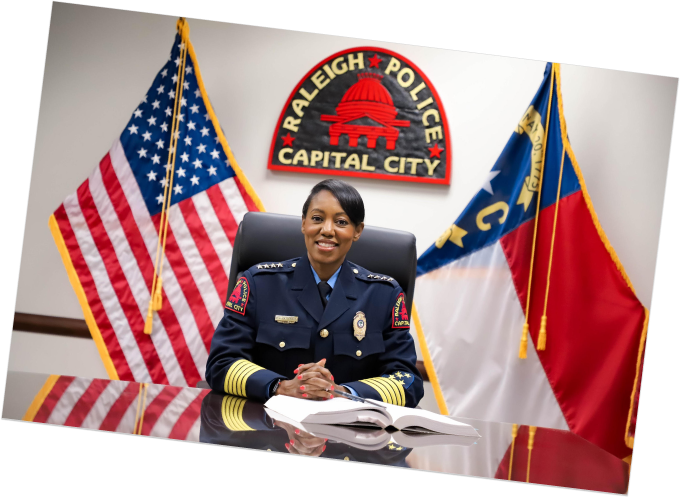
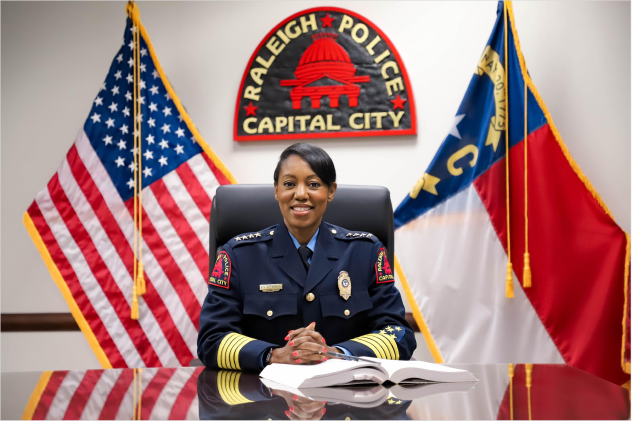
correct letter photo

diff --git a/styles/globals.scss b/styles/globals.scss
@@ -198,7 +198,7 @@ a {
   }
 
   .image-container {
-    transform: rotate(352.5deg);
+    transform: rotate(0deg);
   }
 
   @media (min-width: 1000px) {
@@ -214,7 +214,7 @@ a {
       max-width: 315px;
       right: -10px;
       bottom: -40px;
-      transform: rotate(0deg);
+      transform: rotate(7deg);
     }
 
   }
